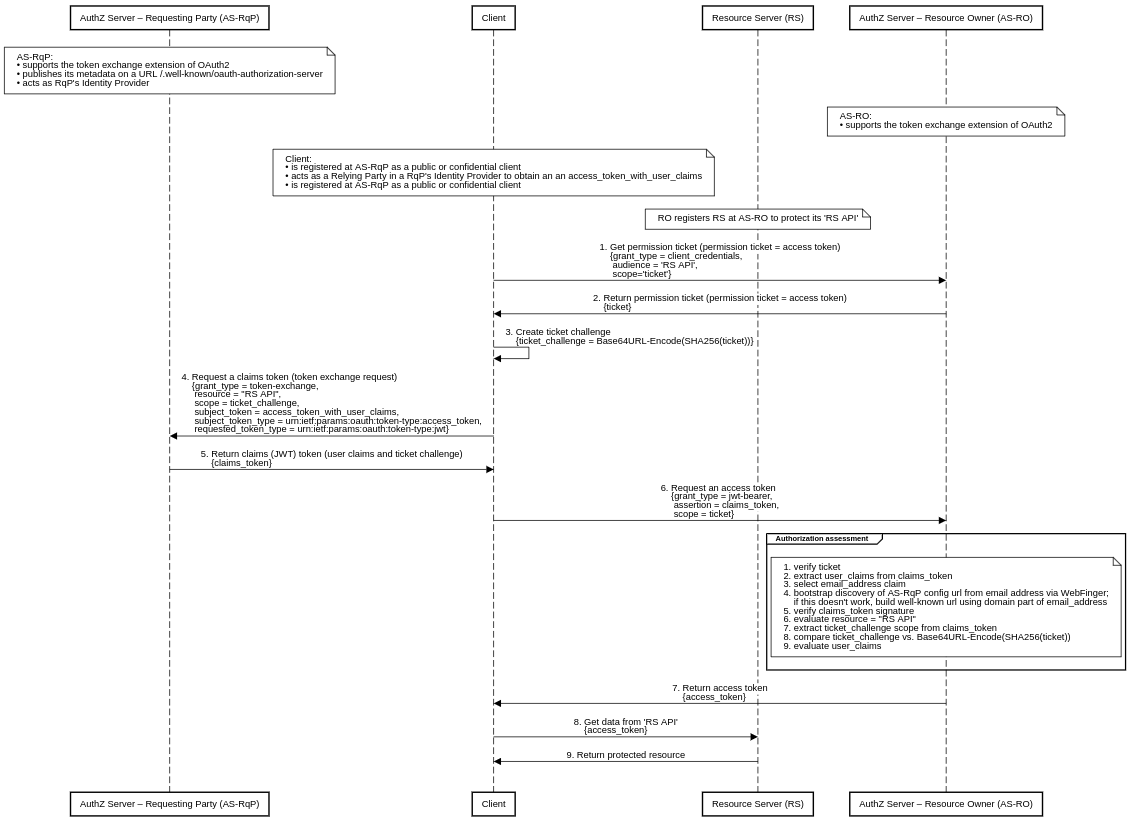
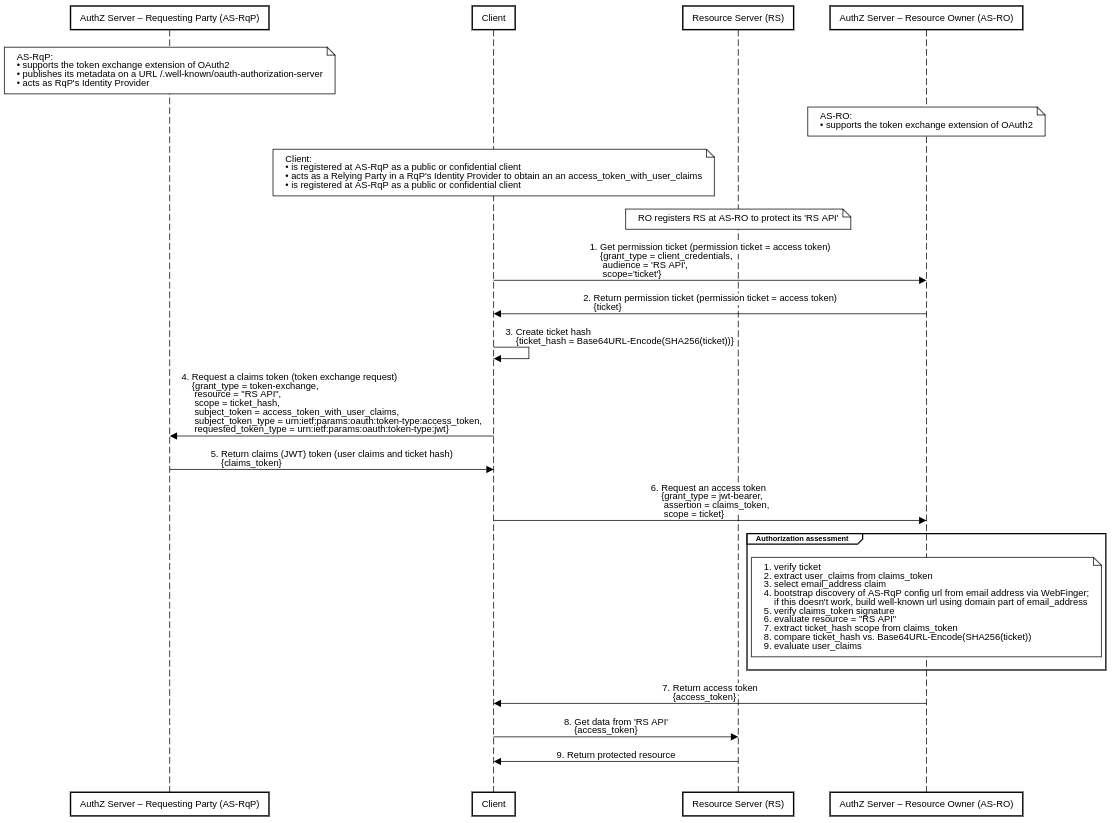
ticket hash

diff --git a/README.md b/README.md
@@ -35,8 +35,8 @@ Steps:
 
 1. The RqP directs the client to access the 'RS API' resource with no access token.
 2. Without an access token, the RS will return HTTP code 401 (Unauthorized) with a permission ticket.
-3. The client creates a ticket challenge derived from the permission ticket using the following transformation ticket_challenge = Base64URL-Encode(SHA256(ticket)).
-4. At the AS-RqP the client requests a claims token by presenting the access token with user claims and the created ticket challenge.
+3. The client generates a ticket hash derived from the permission ticket using the following transformation ticket_hash = Base64URL-Encode(SHA256(ticket)).
+4. At the AS-RqP the client requests a claims token by presenting the access token with user claims and the generated ticket hash.
 5. The AS-RqP returns the claims token.
 6. At the AS-RO the client requests an RPT by presenting the claims token and the permission ticket.
 7. After an authorization assessment, it is positive, the AS-RO returns RPT.
@@ -62,8 +62,8 @@ Steps:
 
 1. The RqP directs the client to get a permission ticket from the AS-RO to access the 'RS API' resource. The created permission ticket is an access token with a scope 'ticket'.
 2. The AS-RO returns the permission ticket.
-3. The client creates a ticket challenge derived from the permission ticket using the following transformation ticket_challenge = Base64URL-Encode(SHA256(ticket)).
-4. At the AS-RqP the client requests a claims token by presenting the access token with user claims and the created ticket challenge.
+3. The client generates a ticket hash derived from the permission ticket using the following transformation ticket_hash = Base64URL-Encode(SHA256(ticket)).
+4. At the AS-RqP the client requests a claims token by presenting the access token with user claims and the generated ticket hash.
 5. The AS-RqP returns the claims (JWT) token.
 6. At the AS-RO the client requests an access token via a JWT grant type by presenting the claims (JWT) token and the permission ticket.
 7. After an authorization assessment, it is positive, the AS-RO returns the access token.
